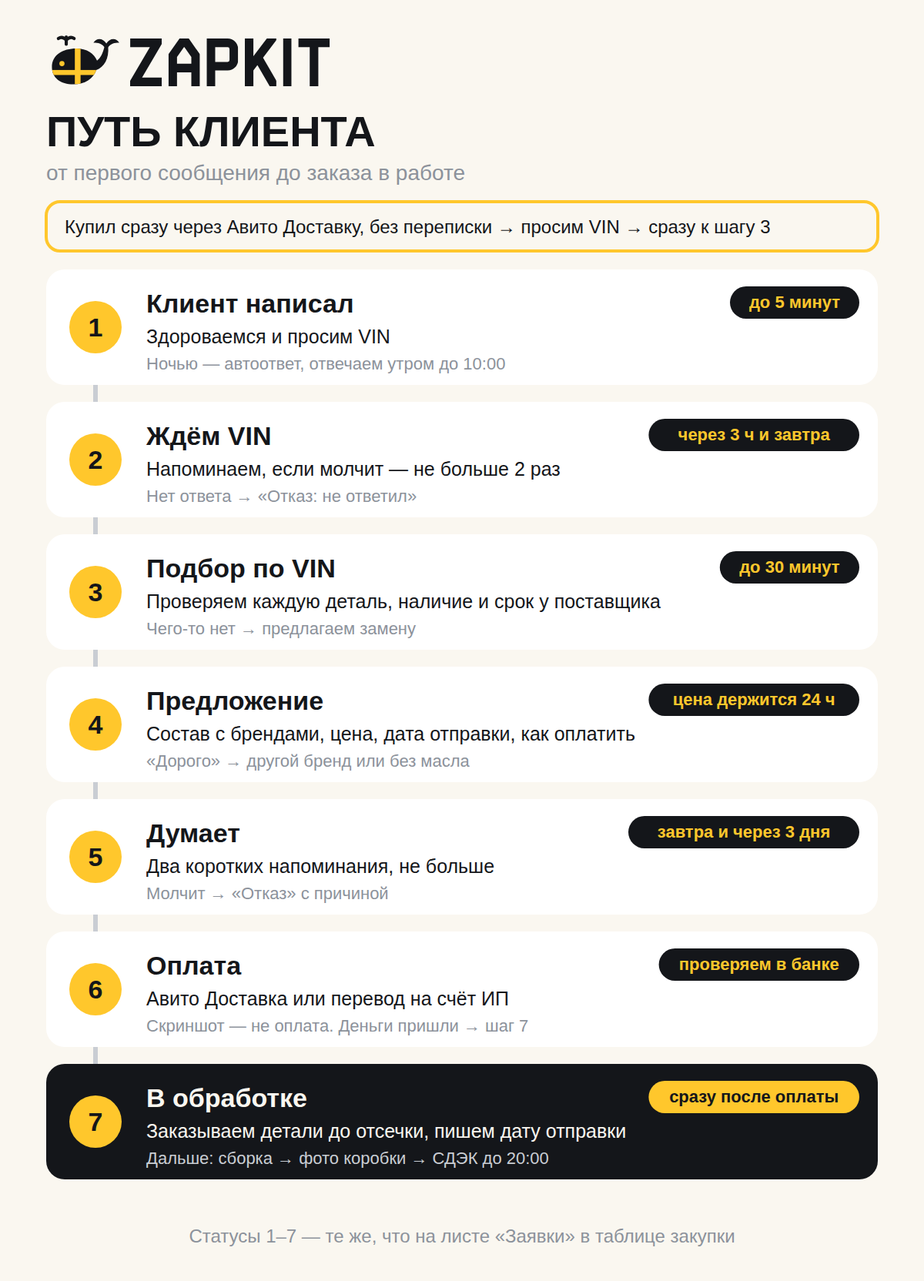
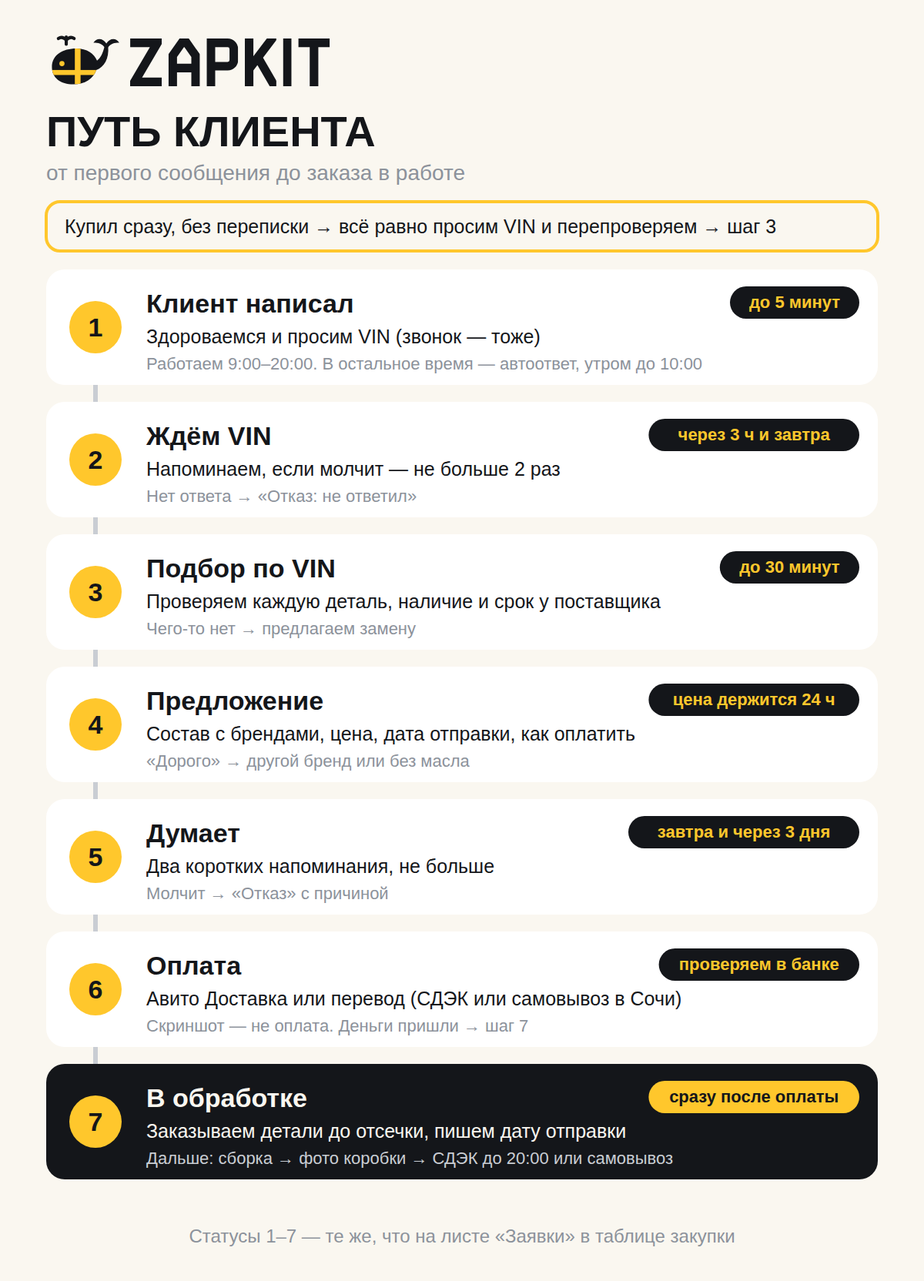
Client loop: decisions on hours, calls, VIN re-check, single parts, pickup
- Working hours 9:00–20:00 every day; calls accepted in those hours,
  VIN still goes to the chat
- Bought without chatting: always re-check by VIN, never ship unchecked,
  cancel if the check cannot be done in time
- Single parts on request, always asking what repair it is for
- Self-pickup in Sochi: transfer in advance, place and time agreed
- Lead sheet: «Оплата и получение» (Авито Доставка / перевод + СДЭК /
  перевод + самовывоз); diagram, listings and store text updated

Claude-Session: https://claude.ai/code/session_01EmRinhBKDvaShQvm1XSe1Q

diff --git a/avito/tools/build_avito.py b/avito/tools/build_avito.py
@@ -363,17 +363,22 @@ def store_mockup(kits):
 
 # --- Схема: путь клиента до заказа в работе --------------------------------
 LOOP = [  # (этап, срок, что делаем, если что-то пошло не так) — как в docs/avito/client-loop.md
-    ("Клиент написал", "до 5 минут", "Здороваемся и просим VIN", "Ночью — автоответ, отвечаем утром до 10:00"),
+    ("Клиент написал", "до 5 минут", "Здороваемся и просим VIN (звонок — тоже)",
+     "Работаем 9:00–20:00. В остальное время — автоответ, утром до 10:00"),
     ("Ждём VIN", "через 3 ч и завтра", "Напоминаем, если молчит — не больше 2 раз", "Нет ответа → «Отказ: не ответил»"),
     ("Подбор по VIN", "до 30 минут", "Проверяем каждую деталь, наличие и срок у поставщика",
      "Чего-то нет → предлагаем замену"),
     ("Предложение", "цена держится 24 ч", "Состав с брендами, цена, дата отправки, как оплатить",
      "«Дорого» → другой бренд или без масла"),
     ("Думает", "завтра и через 3 дня", "Два коротких напоминания, не больше", "Молчит → «Отказ» с причиной"),
-    ("Оплата", "проверяем в банке", "Авито Доставка или перевод на счёт ИП", "Скриншот — не оплата. Деньги пришли → шаг 7"),
+    ("Оплата", "проверяем в банке", "Авито Доставка или перевод (СДЭК или самовывоз в Сочи)",
+     "Скриншот — не оплата. Деньги пришли → шаг 7"),
     ("В обработке", "сразу после оплаты", "Заказываем детали до отсечки, пишем дату отправки",
-     "Дальше: сборка → фото коробки → СДЭК до 20:00"),
+     "Дальше: сборка → фото коробки → СДЭК до 20:00 или самовывоз"),
 ]
+
+
+LOOP_ENTRY = "Купил сразу, без переписки → всё равно просим VIN и перепроверяем → шаг 3"
 
 
 def process_loop():
@@ -385,9 +390,7 @@ def process_loop():
              text(x0, 190, "ПУТЬ КЛИЕНТА", 56, INK),
              text(x0, 234, "от первого сообщения до заказа в работе", 28, STEEL, weight=400),
              f'<rect x="{x0}" y="262" width="{cw}" height="64" rx="18" fill="none" stroke="{YELLOW}" stroke-width="4"/>',
-             text(x0 + 24, 303, "Купил сразу через Авито Доставку, без переписки → просим VIN → сразу к шагу 3",
-                  fit_size("Купил сразу через Авито Доставку, без переписки → просим VIN → сразу к шагу 3", cw - 48, 25, 400),
-                  INK, weight=400)]
+             text(x0 + 24, 303, LOOP_ENTRY, fit_size(LOOP_ENTRY, cw - 48, 25, 400), INK, weight=400)]
     bx = x0 + 64
     parts.append(f'<line x1="{bx}" y1="{top + ch / 2}" x2="{bx}" y2="{top + (len(LOOP) - 1) * (ch + gap) + ch / 2}" '
                  f'stroke="{STEEL_LIGHT}" stroke-width="6"/>')

diff --git a/avito/tools/build_listings.py b/avito/tools/build_listings.py
@@ -13,7 +13,8 @@ from pathlib import Path
 ROOT = Path(__file__).resolve().parents[2]
 OUT = ROOT / "docs" / "avito" / "listings.md"
 
-SHIPPING = "Отправляем СДЭКом каждый вечер до 20:00. Перед отправкой пришлём фото собранной коробки."
+SHIPPING = ("Отправляем СДЭКом каждый вечер до 20:00. Перед отправкой пришлём фото собранной коробки. "
+            "В Сочи можно забрать самим — договоримся о месте и времени.")
 
 INTRO = {
     "TO-01": "Первый Солярис до сих пор на ходу в каждом втором такси — и ТО ему нужно регулярно. "
@@ -162,7 +163,8 @@ def build():
            "Подбираем по VIN, перед отправкой "
            "присылаем фото собранной коробки.", "",
            "Любую позицию можно заменить на другой аналог или оригинал — пересчитаем цену.", "",
-           "Отправляем СДЭКом каждый вечер до 20:00.", "",
+           "Отправляем СДЭКом каждый вечер до 20:00. В Сочи — самовывоз по договорённости.", "",
+           "На связи каждый день с 9:00 до 20:00.", "",
            "Solaris, Rio, Picanto, Polo, Jetta, Jolion, Haval F7, Tiggo, Coolray.", "",
            "Не нашли свой автомобиль в списке? Отправьте VIN в чат — рассчитаем стоимость и соберём кит "
            "под вашу машину.",

diff --git a/avito/tools/build_sheet.py b/avito/tools/build_sheet.py
@@ -149,7 +149,7 @@ def build_leads(wb):
     """Лист «Заявки»: одна строка — одно обращение. Статусы — как в docs/avito/client-loop.md."""
     wl = wb.create_sheet("Заявки")
     cols = ["№", "Дата и время", "Покупатель (имя на Авито)", "Откуда", "Кит / что спросил", "Машина", "VIN",
-            "Статус", "Первый ответ, мин", "Сумма, ₽", "Оплата", "Причина отказа", "Следующий шаг", "Когда",
+            "Статус", "Первый ответ, мин", "Сумма, ₽", "Оплата и получение", "Причина отказа", "Следующий шаг", "Когда",
             "Комментарий"]
     widths = [6, 13, 20, 14, 18, 18, 20, 17, 10, 11, 15, 17, 30, 9, 30]
     header(wl, 1, cols, widths)
@@ -166,7 +166,7 @@ def build_leads(wb):
         for col in range(2, 16):
             cell(wl, r, col, None, inp=True, fmt=RUB if col == 10 else ("DD.MM" if col == 14 else None))
     lists = [("D", ["чат", "купил сразу", "звонок"]), ("H", LEAD_STATUSES),
-             ("K", ["Авито Доставка", "перевод"]), ("L", LEAD_REASONS)]
+             ("K", ["Авито Доставка", "перевод + СДЭК", "перевод + самовывоз"]), ("L", LEAD_REASONS)]
     for col, values in lists:
         dv = DataValidation(type="list", formula1='"' + ",".join(values) + '"', allow_blank=True)
         wl.add_data_validation(dv)

diff --git a/docs/avito/client-loop.md b/docs/avito/client-loop.md
@@ -12,8 +12,8 @@
 
 ## Главные правила
 
-1. **Отвечаем за 5 минут** в рабочее время. Покупатель обычно пишет сразу нескольким продавцам и часто покупает у того, кто ответил первым.
-2. **Без VIN ничего не подбираем.** VIN — основа нашей гарантии «не подошло по нашему подбору — вернём деньги».
+1. **Отвечаем за 5 минут** в рабочее время: **каждый день с 9:00 до 20:00**. Покупатель обычно пишет сразу нескольким продавцам и часто покупает у того, кто ответил первым.
+2. **Без проверки по VIN ничего не отправляем.** Даже если клиент купил сразу и уверен в детали — перепроверяем. VIN — основа нашей гарантии «не подошло по нашему подбору — вернём деньги».
 3. **Всё общение — только в чате Авито.** Там остаётся VIN, состав и цена, о которых договорились. Если будет спор, это наше доказательство.
 4. **Каждое обращение сразу заносим в «Заявки».** Даже если человек спросил и пропал. Иначе через месяц не понять, почему не покупают.
 5. **Ни одного клиента без следующего шага.** У каждой открытой заявки есть «что делаем» и «когда». Просроченные таблица подсвечивает оранжевым.
@@ -49,7 +49,9 @@
 
 > Подберём точно по вашей машине — для этого нужен VIN. Пришлите, и в течение получаса отвечу по каждой детали.
 
-**Если написал в нерабочее время:** срабатывает автоответ (текст ниже, в разделе «Настроить в Авито»), а утром до 10:00 отвечаем сами.
+**Если написал после 20:00 или до 9:00:** срабатывает автоответ (текст ниже, в разделе «Настроить в Авито»), а утром до 10:00 отвечаем сами.
+
+**Если позвонил:** звонки принимаем в рабочее время. После разговора просим прислать VIN в чат — так он не потеряется, и там же будет предложение.
 
 ### Шаг 2. Ждём VIN → «2. Ждём VIN»
 
@@ -88,7 +90,7 @@
 > — <деталь, бренд, артикул>
 > — карта ремонта
 >
-> Цена <цена> ₽. Отправим СДЭКом <сегодня / завтра> вечером, до 20:00. Перед отправкой пришлю фото собранной коробки.
+> Цена <цена> ₽. Отправим СДЭКом <сегодня / завтра> вечером, до 20:00. Перед отправкой пришлю фото собранной коробки. Если вы в Сочи, можно забрать самим — договоримся о месте и времени.
 >
 > Оплатить можно через Авито Доставку (кнопка «Купить с доставкой» в объявлении) или переводом на счёт ИП — как вам удобнее?
 >
@@ -122,6 +124,10 @@
 
 > Отлично! Оплатить можно по СБП на счёт ИП: <как настроите в банке — QR-код или номер>. После оплаты пришлю чек и сразу закажу детали.
 
+**Самовывоз в Сочи** (если клиент хочет забрать сам): оплата переводом заранее, после проверки VIN, — детали мы заказываем под клиента. Место назначаете вы, время — с 9:00 до 20:00.
+
+> Отлично, забрать можно в Сочи. Оплата переводом по СБП: <реквизиты>. Как только детали приедут и я соберу кит, напишу — договоримся о месте и времени.
+
 **Правила оплаты:**
 - **Деньги проверяем в приложении банка.** Скриншот от клиента — не оплата.
 - **При переводе отправляем чек** через онлайн-кассу: так требует закон (54-ФЗ).
@@ -143,6 +149,10 @@
 
 > Заказ принят в работу. Детали заказал, отправим <дата> вечером, до 20:00. Перед отправкой пришлю фото собранной коробки и трек-номер.
 
+Для самовывоза:
+
+> Заказ принят в работу. Детали заказал, кит будет готов <дата>. Напишу, как соберу, — договоримся, где и когда встретиться.
+
 ---
 
 ## Если клиент купил сразу, без переписки
@@ -154,7 +164,11 @@
    > Спасибо за заказ! Чтобы проверить каждую деталь под вашу машину, пришлите, пожалуйста, VIN — 17 символов из СТС. Как только проверю, подтвержу заказ и отправлю.
 
 2. Дальше — **шаг 3 (подбор)** и **шаг 7**, предложение и оплата уже не нужны.
-3. **Если VIN не присылает**, напоминаем через 3 часа. Что делать, если VIN так и не пришёл до конца срока подтверждения, решите заранее (см. [что решить вам](#что-решить-вам)).
+3. **Без проверки не отправляем — в любом случае.** Если VIN не присылает, через 3 часа напоминаем и предлагаем варианты: фото СТС (личные данные можно закрыть) или позвонить через Авито и продиктовать.
+
+   > Без VIN не могу гарантировать, что всё подойдёт, а отправлять наугад не хочу. Пришлите, пожалуйста, VIN или фото СТС — проверю за полчаса и сразу отправлю.
+
+4. **Если проверить так и не удалось** до конца срока подтверждения заказа — отменяем заказ и объясняем почему. Лучше отмена, чем коробка, которая не подойдёт и вернётся за наш счёт.
 
 ---
 
@@ -165,11 +179,12 @@
 | **Не знает, где VIN** | «VIN есть в СТС, строка VIN. Ещё он есть внизу лобового стекла слева и на стойке водительской двери.» |
 | **Машины нет в списке** | Просим VIN, подбираем, считаем кит как обычно (закупка × 1,3 плюс 5%). Если одну и ту же машину спрашивают часто — делаем под неё объявление. |
 | **«Дорого»** | Скидку с цены не даём. Предлагаем дешевле бренд или кит без масла, если у клиента своё: «Могу собрать на <бренд> — будет <цена> ₽, или без масла — <цена> ₽». Отказался → «Отказ», причина «дорого». |
-| **Хочет одну деталь** | Решите, продаём ли поштучно (см. ниже). Если да — считаем так же, как кит, и предлагаем кит: «Обычно вместе с <деталь> меняют <детали>, в ките всё это в одной коробке». |
+| **Хочет одну деталь** | Продаём поштучно, если клиент просит. Цену считаем так же, как у кита (закупка × 1,3 плюс 5%). Обязательно спрашиваем, какой ремонт он делает — возможно, ему нужно что-то ещё: «Для какого ремонта деталь? Подскажу, что обычно меняют вместе с ней, чтобы не пришлось заказывать второй раз». Нужно больше — предлагаем кит или добавляем позиции. |
 | **«Это оригинал?»** | «У каждой детали в описании указан бренд. Сейчас в ките <бренды>. Любую позицию можно заменить на оригинал — пересчитаю цену.» Слово «оригинал» — только про оригинальные детали. |
 | **Спрашивает про установку** | «Установкой не занимаемся — мы интернет-магазин запчастей. Для ГРМ и тормозов советуем сервис, карта ремонта в коробке поможет мастеру.» |
 | **Нужно срочно, сегодня** | Только если все детали есть у поставщика в Сочи и мы успеваем до отсечки. Не обещаем то, что не зависит от нас. |
-| **Звонит** | Отвечаем коротко и просим написать VIN в чат: «Чтобы ничего не перепутать, пришлите VIN в чат Авито — там же пришлю состав и цену.» |
+| **Звонит** | Звонки принимаем с 9:00 до 20:00. После разговора просим продублировать VIN в чат: «Чтобы ничего не перепутать, пришлите VIN в чат Авито — там же пришлю состав и цену.» |
+| **Хочет забрать сам в Сочи** | Даём. Оплата переводом заранее, после проверки VIN (детали заказываем под клиента). Место назначаете вы, время — с 9:00 до 20:00. В «Заявках» — «перевод + самовывоз». |
 | **Зовёт в WhatsApp или Telegram, присылает ссылку «на оплату» или «на доставку»** | Не переходим и ссылки не открываем. Это частая схема мошенников. «Давайте всё в чате Авито — так надёжнее для нас обоих.» |
 | **Цена у поставщика выросла после предложения** | В течение 24 часов держим обещанную цену. Позже — честно пересчитываем до оплаты. |
 | **Таксопарк, юрлицо, несколько машин** | Оплата по счёту, отдельное предложение: [«Предложение для таксопарков»](templates.md#предложение-для-таксопарков). |
@@ -197,10 +212,11 @@
 ## Настроить в Авито перед стартом
 
 - [ ] **Уведомления о сообщениях** в приложении Авито на телефоне, со звуком.
-- [ ] **Рабочие часы** в профиле магазина.
+- [ ] **Рабочие часы** в профиле магазина: каждый день 9:00–20:00.
+- [ ] **Звонки** включены на те же часы (если Авито позволяет задать время звонков).
 - [ ] **Автоответ на нерабочее время** (в настройках сообщений; если такого пункта нет в вашем тарифе, уточните в поддержке Авито):
 
-  > Здравствуйте! Это ZAPKIT. Сейчас мы не на связи, ответим утром до 10:00. Чтобы не терять время, пришлите VIN вашей машины — к утру подберём кит.
+  > Здравствуйте! Это ZAPKIT. Мы на связи каждый день с 9:00 до 20:00 — ответим утром до 10:00. Чтобы не терять время, пришлите VIN вашей машины — к утру подберём кит.
 
 - [ ] **Шаблоны ответов:** сохраните сообщения из шагов 1, 2, 4, 6 и 7. Если шаблонов в тарифе нет, держите их в заметках телефона.
 - [ ] **Авито Доставка включена во всех объявлениях**, указаны вес и размер коробки. Ориентиры: ТО-кит ≈ 5 кг, тормоз-кит ≈ 10–11 кг (два диска), ГРМ-кит ≈ 2 кг. Взвесьте первую собранную коробку каждого вида и поправьте.
@@ -209,15 +225,15 @@
 
 ---
 
-## Что решить вам
+## Что решили
 
-Эти правила влияют на весь поток, их лучше решить до первого клиента. Напишите, как решили, — впишу в документ и в шаблоны.
-
-1. **Рабочие часы.** Предлагаю 9:00–21:00 каждый день. Вечером люди чаще пишут, а отправка СДЭКом — до 20:00.
-2. **Звонки.** Предлагаю на старте только сообщения: всё остаётся письменно, VIN не теряется.
-3. **Купил сразу, а VIN не прислал.** Предлагаю: ТО и тормоза отправляем по данным объявления, если клиент подтвердил в чате модель и годы; ГРМ — только по VIN, иначе отменяем заказ.
-4. **Детали поштучно.** Продаём или только киты?
-5. **Самовывоз или встреча в Сочи.** Даём такую возможность или только СДЭК?
+| Вопрос | Решение |
+|---|---|
+| Рабочие часы | Каждый день **9:00–20:00**. В остальное время — автоответ, утром отвечаем до 10:00 |
+| Звонки | Принимаем в рабочие часы. VIN, состав и цену всё равно фиксируем в чате |
+| Купил сразу, без VIN | **В любом случае перепроверяем.** Без проверки не отправляем; не удалось проверить — отменяем заказ |
+| Детали поштучно | Продаём по просьбе клиента и спрашиваем, какой ремонт он делает: возможно, ему нужно что-то ещё |
+| Самовывоз в Сочи | **Даём.** Оплата переводом заранее, место — ваше, время — 9:00–20:00 |
 
 ---
 

diff --git a/docs/avito/step-by-step.md b/docs/avito/step-by-step.md
@@ -92,7 +92,7 @@
 | Аватар | `brand/png/zapkit-avatar.png` (жёлтый с китом) |
 | Описание | Текст из [listings.md → «Описание магазина»](listings.md#описание-магазина) |
 | Доставка | Включить **Авито Доставку** |
-| Часы ответа | Например, 9:00–21:00 |
+| Часы ответа | Каждый день 9:00–20:00 |
 
 **Обложку магазина** Авито даёт ставить только с подпиской. Вы подключаете тариф за 6 000 ₽ в месяц, так что ставьте сразу: файлы лежат в `brand/png/avito-cover-*.png`.
 
